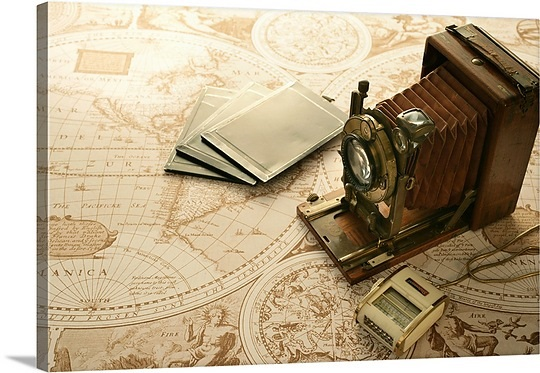
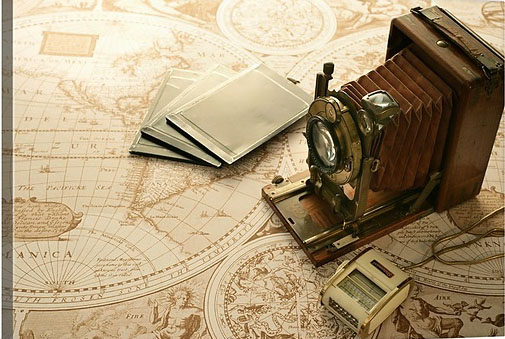
first commit

diff --git a/portfolio.html b/portfolio.html
@@ -3,16 +3,41 @@
 	  <head>
 	    <meta charset="utf-8">
 	    <title>Portfolio</title>
-	  <link href="portfoliopage.css" rel="stylesheet" type= "text/css" />
+	  <link href="portfolio.css" rel="stylesheet" type= "text/css" />
 	  </head>
-	  <body style= "backgound-color: #F4F4F4";>
+	  <body style="background-color:#F4F4F4;">
     <ul>
         <li><a href="index.html">Home</a></li>
         <li><a class="active" href="portfolio.html">Portfolio</a></li>
     </ul>
-    <h1 style= "font-family: Zapfino; color: #C0B283;">This is my Portfolio Page!</h1>
-    <img src="images/2819_L-piano.jpg" height="250">
-    <br>
-	  </body>
-	</html>
-
+    <h1 style= "text-align: center; font-family: Zapfino, Century Gothic; font-size: 300%; color: #DCD0C0;">Portfolio Page</h1>
+        <h2 style= "color: #C0B283;">My Game</h2>
+            <h3>"Track Run" by Spencer Levine and Shivani Mishra</h3>
+                <iframe allowtransparency="true" width="485" height="402" src="//scratch.mit.edu/projects/embed/128655687/?autostart=false" frameborder="0" allowfullscreen></iframe>
+        <h2>Other Student Games</h2>
+            <h3>"Pong" by Alan Tsui and Jordan Leff</h3>
+                <iframe allowtransparency="true" width="485" height="402" src="//scratch.mit.edu/projects/embed/127581905/?autostart=false" frameborder="0" allowfullscreen></iframe>
+            <h3>"CSE" by Joshua Ibrahim and Meghan Lulley</h3>
+                <iframe allowtransparency="true" width="485" height="402" src="//scratch.mit.edu/projects/embed/127581856/?autostart=false" frameborder="0" allowfullscreen></iframe>
+            <h3>"Goldman" by Eric Dice and Nick San Antonio</h3>
+                <iframe allowtransparency="true" width="485" height="402" src="//scratch.mit.edu/projects/embed/127982392/?autostart=false" frameborder="0" allowfullscreen></iframe>
+            <h3>"HSE Scratch Story" by Emily Schabel</h3>
+                <iframe allowtransparency="true" width="485" height="402" src="//scratch.mit.edu/projects/embed/127581166/?autostart=false" frameborder="0" allowfullscreen></iframe>
+            <h3>"Bubble Shot" by Nasreen Zakir and Orion Kassebaum</h3>
+                <iframe allowtransparency="true" width="485" height="402" src="//scratch.mit.edu/projects/embed/127581332/?autostart=false" frameborder="0" allowfullscreen></iframe>
+            <h3>"Tower Game" by Alec Newman and Rahul Ravi</h3>
+                <iframe allowtransparency="true" width="485" height="402" src="//scratch.mit.edu/projects/embed/127779623/?autostart=false" frameborder="0" allowfullscreen></iframe>
+            <h3>"Untitled" by Alex Heinkele and Jack Lehmann</h3>
+                <iframe allowtransparency="true" width="485" height="402" src="//scratch.mit.edu/projects/embed/127981819/?autostart=false" frameborder="0" allowfullscreen></iframe>
+            <h3>"New Warrior" by Jesse Blatt and Viren Sabhnani</h3>
+                <iframe allowtransparency="true" width="485" height="402" src="//scratch.mit.edu/projects/embed/128457601/?autostart=false" frameborder="0" allowfullscreen></iframe>
+            <h3>"Brick Breaker" by Evan Patrick and Matt Cohen</h3>
+                <iframe allowtransparency="true" width="485" height="402" src="//scratch.mit.edu/projects/embed/128296965/?autostart=false" frameborder="0" allowfullscreen></iframe>
+            <h3>"Untitled-2" by Gabi Gonzalex and Nicole Shankar</h3>
+                <iframe allowtransparency="true" width="485" height="402" src="//scratch.mit.edu/projects/embed/128457577/?autostart=false" frameborder="0" allowfullscreen></iframe>
+            <h3>"Donkey Kong" by Paul Bruno and Dan Miele</h3>
+                <iframe allowtransparency="true" width="485" height="402" src="//scratch.mit.edu/projects/embed/127780118/?autostart=false" frameborder="0" allowfullscreen></iframe>
+            <h3>"Reincharge" by Anthony Phipps and Evan Hiltzik</h3>
+                <iframe allowtransparency="true" width="485" height="402" src="//scratch.mit.edu/projects/embed/127782201/?autostart=false" frameborder="0" allowfullscreen></iframe>
+	   </body>
+	   </html>

diff --git a/index.html b/index.html
@@ -3,15 +3,17 @@
   <head>
     <meta charset="utf-8">
     <title>Home</title>
-    <link href="homepage.css" rel="stylesheet" type="text/css" />
+    <link href="index.css" rel="stylesheet" type="text/css" />
   </head>
   <body style="background-color:#F4F4F4;">
-     <ul>
-  <li><a class="active" href="index.html">Home</a></li>
-  <li><a href="portfolio.html">Portfolio</a></li>
-</ul> 
-    <h1 style="text-align:center; font-family:Zapfino; font-size:400%; color:#C0B283;"><i>Shivani Mishra</i></h1>
+    <ul>
+      <li><a class="active" href="index.html">Home</a></li>
+      <li><a href="portfolio.html">Portfolio</a></li>
+    </ul> 
+  <h1 style="text-align:center; font-family: Zapfino, Century Gothic; font-size:400%; color:#C0B283;"><i>Shivani Mishra</i></h1>
     <img src="images/Screen Shot 2016-10-09 at 12.33.35 AM.png" height="250">
     <img src="images/violinchrome.png" height= "250">
+  <br>
+  <img src="images/antique-camera-and-world-map,1001528.jpg" height="250" "img-align: center"
   </body>
 </html>

diff --git a/portfolio.css b/portfolio.css
@@ -1,6 +1,7 @@
 body{
-    font-family: "Zapfino";
-    color:#003366;
+    background-color:#F4F4F4;
+    font-family: "Zapfino", "Century Gothic";
+    color:#373737;
       }
 
 h1 {
@@ -13,6 +14,14 @@ ul {
     padding: 0;
     overflow: hidden;
     background-color: #373737;
+}
+
+h2 {
+    color: #C0B283;
+}
+
+h3 {
+    color: #373737;
 }
 
 li {

diff --git a/index.css b/index.css
@@ -1,5 +1,5 @@
 body{
-    font-family: "Zapfino";
+    font-family: "Zapfino", "Century Gothic";
     color:#003366;
       }
 
